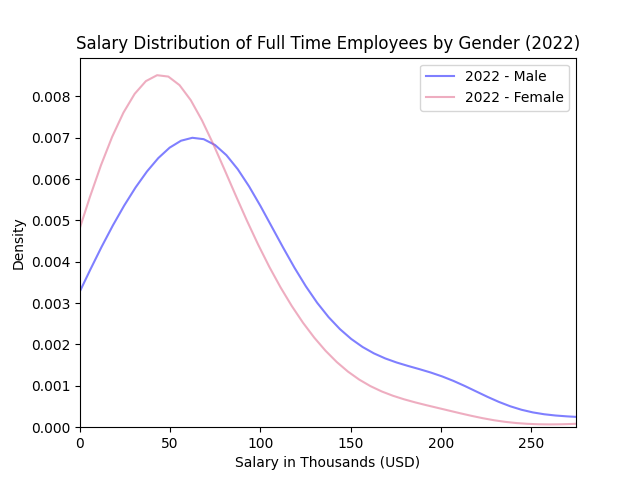
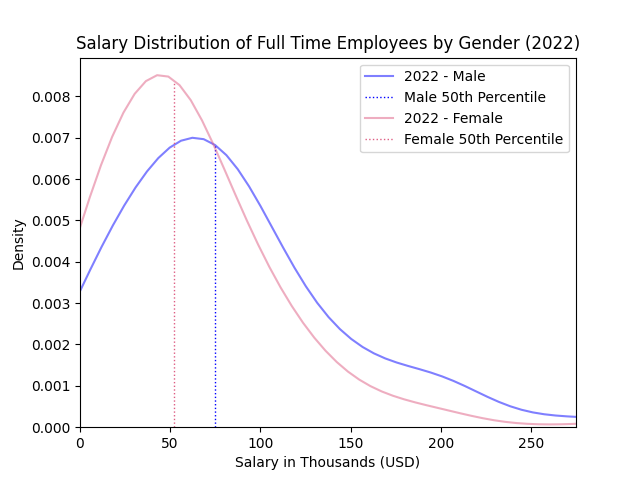
add median lines and reorganize code

Changed region(s): [[0.625, 0.125, 0.9062, 0.3125], [0.5625, 0.1562, 0.5938, 0.25], [0.5625, 0.2812, 0.5938, 0.3125]]

diff --git a/playground.py b/playground.py
@@ -32,6 +32,7 @@ def main():
         full_time = asec[asec["a_wkstat"] == 2]
         mean = full_time["wsal_val"].mean()
         std = full_time["wsal_val"].std()
+        
 
         lower_bound = 1
         upper_bound = mean + 2 * std  # adjust multiplier as needed
@@ -48,6 +49,7 @@ def main():
             male = filtered_data[filtered_data["a_sex"] == 1]
             female = filtered_data[filtered_data["a_sex"] == 2]
 
+            # KDE plot for males
             sns.kdeplot(
                 male["wsal_val"]/1000,
                 ax=ax,
@@ -55,6 +57,15 @@ def main():
                 label=f"{yrs} - Male",
                 color="blue"
             )
+            # Calculate male median, interpolate and plot vertical line
+            male_median = male["wsal_val"].median() / 1000
+            male_line = ax.lines[-1]
+            male_xs = male_line.get_xdata()
+            male_ys = male_line.get_ydata()
+            male_height = np.interp(male_median, male_xs, male_ys)
+            ax.vlines(male_median, 0, male_height, color='blue', linestyle=':', linewidth=1, label='Male 50th Percentile')
+
+            # KDE plot for females
             sns.kdeplot(
                 female["wsal_val"]/1000,
                 ax=ax,
@@ -62,14 +73,24 @@ def main():
                 label=f"{yrs} - Female",
                 color="#DE5D83"
             )
+            # Calculate female median, interpolate and plot vertical line
+            female_median = female["wsal_val"].median() / 1000
+            female_line = ax.lines[-1]
+            female_xs = female_line.get_xdata()
+            female_ys = female_line.get_ydata()
+            female_height = np.interp(female_median, female_xs, female_ys)
+            ax.vlines(female_median, 0, female_height, color='#DE5D83', linestyle=':', linewidth=1, label='Female 50th Percentile')
 
-            ax.set_title(
-                f"Salary Distribution of Full Time Employees by Gender ({yrs})"
-            )
+            # Plot finishing touches
+            ax.set_title(f"Salary Distribution of Full Time Employees by Gender ({yrs})")
             ax.set_xlabel("Salary in Thousands (USD)")
             ax.set_ylabel("Density")
             ax.set_xlim(0, 275)
             ax.legend()
+
+            handles, labels = ax.get_legend_handles_labels()
+            by_label = dict(zip(labels, handles))  # Removes duplicates
+            ax.legend(by_label.values(), by_label.keys())
 
             plt.savefig(f"figs/full_time_salary_by_gender_{label}_{yrs}.png")
             plt.close()
